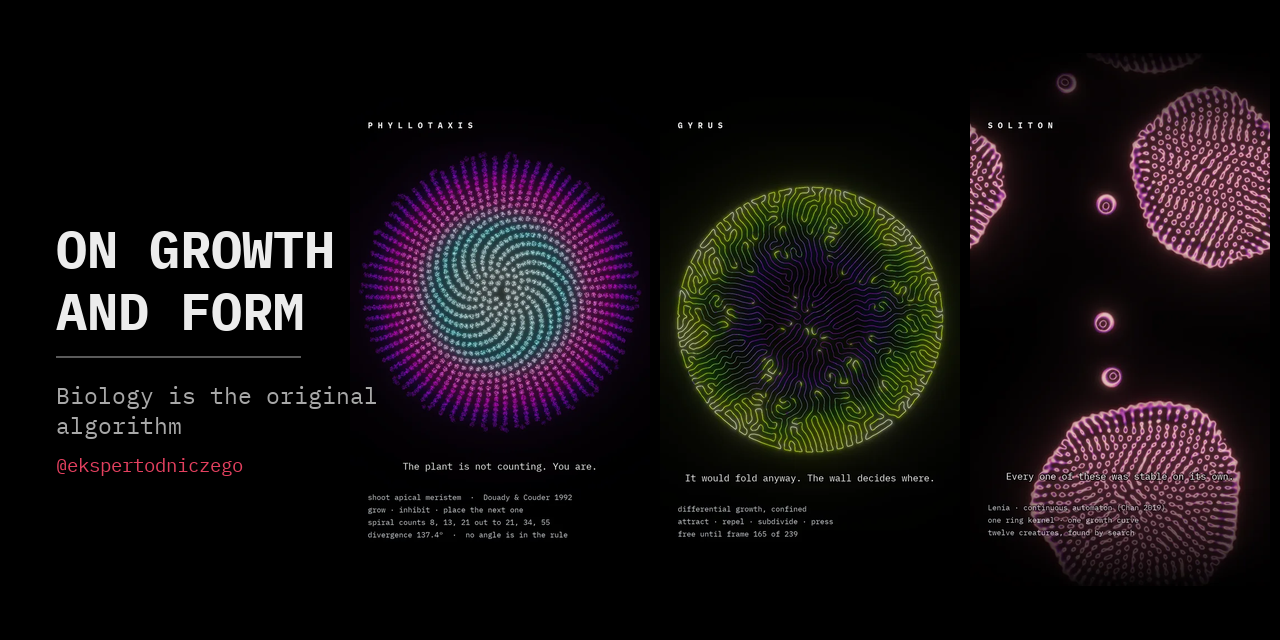
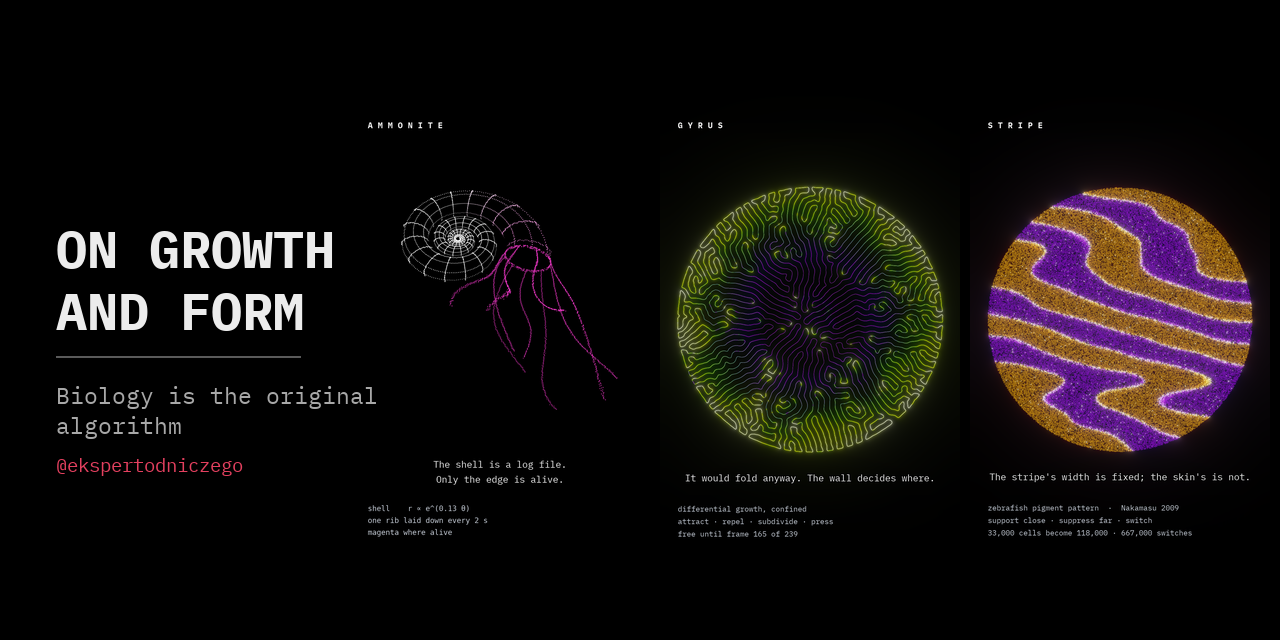
Animate the grid, swap stripe in, put the rules on the page
Six animated loops instead of six stills: 360 px at 12 fps as animated WebP,
4.2 MB for all six, and they run at once without a player or a click.

Stripe replaces Hydrocreatures. The yuruyurau credit goes with it — that
family belongs to the cosine creature, which is not shown here, and
Hydrocreatures was never one of them.

The format paragraph is gone. In its place the six rules themselves, as
maths, read off the models that produced these clips: the phyllotaxis
argmin, the zebrafish near/far drive, the differential-growth update,
anastomosis, Beris-Edwards with an active stress, and the Lenia step.

Wordmark on one line, with a rule and a letterspaced tagline under it.

diff --git a/README.md b/README.md
@@ -1,14 +1,10 @@
 ```
-█▀▀▀▀  █  ▄▀  █▀▀▀▀  █▀▀▀█  █▀▀▀▀  █▀▀▀█  ▀▀█▀▀
-█▀▀▀   █▀█    ▀▀▀▀█  █▀▀▀▀  █▀▀▀   █▀█▀▀    █
-█▄▄▄▄  █  ▀▄  ▄▄▄▄█  █      █▄▄▄▄  █  ▀▄    █
-
-█▀▀▀█  █▀▀▀▄  █▄  █  ▀▀█▀▀  █▀▀▀▀  ▀▀▀█▀  █▀▀▀▀  █▀▀▀▀  █▀▀▀█
-█   █  █   █  █ █ █    █    █       ▄▀    █▀▀▀   █ ▀▀█  █   █
-█▄▄▄█  █▄▄▄▀  █  ▀█  ▄▄█▄▄  █▄▄▄▄  █▄▄▄▄  █▄▄▄▄  █▄▄▄█  █▄▄▄█
+█▀▀▀▀ █  ▄▀ █▀▀▀▀ █▀▀▀█ █▀▀▀▀ █▀▀▀█ ▀▀█▀▀ █▀▀▀█ █▀▀▀▄ █▄  █ ▀▀█▀▀ █▀▀▀▀ ▀▀▀█▀ █▀▀▀▀ █▀▀▀▀ █▀▀▀█
+█▀▀▀  █▀█   ▀▀▀▀█ █▀▀▀▀ █▀▀▀  █▀█▀▀   █   █   █ █   █ █ █ █   █   █      ▄▀   █▀▀▀  █ ▀▀█ █   █
+█▄▄▄▄ █  ▀▄ ▄▄▄▄█ █     █▄▄▄▄ █  ▀▄   █   █▄▄▄█ █▄▄▄▀ █  ▀█ ▄▄█▄▄ █▄▄▄▄ █▄▄▄▄ █▄▄▄▄ █▄▄▄█ █▄▄▄█
+───────────────────────────────────────────────────────────────────────────────────────────────
+             B I O L O G Y    I S    T H E    O R I G I N A L    A L G O R I T H M
 ```
-
-# Biology is the original algorithm
 
 [![Instagram](https://img.shields.io/badge/Instagram-@ekspertodniczego-E4405F?logo=instagram&logoColor=white)](https://instagram.com/ekspertodniczego)
 [![Python](https://img.shields.io/badge/Python-3.12-3776AB?logo=python&logoColor=white)](https://www.python.org/)
@@ -20,45 +16,129 @@ filmed while it computes.
 
 Nothing is an illustration of a result. The model runs, the run *is* the
 footage, and the colour is a quantity the model actually carries: how old a cell
-is, which species it belongs to, how hard it is pulling at that instant. Frame
-one is the finished object, because frame one is the thumbnail.
+is, which of two cells won that patch of skin, how hard a sheet is pulling at
+that instant.
 
 ---
 
-## Six of them
-
 <table>
 <tr>
-<td width="33%"><a href="reels/phyllotaxis/"><img src="reels/phyllotaxis/still.webp" alt="Phyllotaxis"></a></td>
-<td width="33%"><a href="reels/gyrus/"><img src="reels/gyrus/still.webp" alt="Gyrus"></a></td>
-<td width="33%"><a href="reels/hyphae/"><img src="reels/hyphae/still.webp" alt="Hyphae"></a></td>
+<td width="33%"><a href="reels/phyllotaxis/"><img src="reels/phyllotaxis/loop.webp" alt="Phyllotaxis"></a></td>
+<td width="33%"><a href="reels/stripe/"><img src="reels/stripe/loop.webp" alt="Stripe"></a></td>
+<td width="33%"><a href="reels/gyrus/"><img src="reels/gyrus/loop.webp" alt="Gyrus"></a></td>
 </tr>
 <tr valign="top">
 <td><b><a href="reels/phyllotaxis/">Phyllotaxis</a></b><br><sub>Wetware · a shoot apex placing organs</sub><br><br><i>The plant is not counting.<br>You are.</i></td>
+<td><b><a href="reels/stripe/">Stripe</a></b><br><sub>Wetware · a pattern the tissue argues out</sub><br><br><i>Turing predicted chemicals.<br>These are cells.</i></td>
 <td><b><a href="reels/gyrus/">Gyrus</a></b><br><sub>Wetware · differential growth against a wall</sub><br><br><i>It would fold anyway.<br>The wall decides where.</i></td>
-<td><b><a href="reels/hyphae/">Hyphae</a></b><br><sub>Substrate · a mycelium closing its own loops</sub><br><br><i>A tree branches.<br>A fungus branches back.</i></td>
 </tr>
 <tr>
-<td><a href="reels/defect/"><img src="reels/defect/still.webp" alt="Defect"></a></td>
-<td><a href="reels/hydrocreatures/"><img src="reels/hydrocreatures/still.webp" alt="Hydrocreatures"></a></td>
-<td><a href="reels/soliton/"><img src="reels/soliton/still.webp" alt="Soliton"></a></td>
+<td><a href="reels/hyphae/"><img src="reels/hyphae/loop.webp" alt="Hyphae"></a></td>
+<td><a href="reels/defect/"><img src="reels/defect/loop.webp" alt="Defect"></a></td>
+<td><a href="reels/soliton/"><img src="reels/soliton/loop.webp" alt="Soliton"></a></td>
 </tr>
 <tr valign="top">
+<td><b><a href="reels/hyphae/">Hyphae</a></b><br><sub>Substrate · a mycelium closing its own loops</sub><br><br><i>A tree branches.<br>A fungus branches back.</i></td>
 <td><b><a href="reels/defect/">Defect</a></b><br><sub>Substrate · an organism's parts, organism removed</sub><br><br><i>Nothing here is alive.<br>It still cannot rest.</i></td>
-<td><b><a href="reels/hydrocreatures/">Hydrocreatures</a></b><br><sub>Biomorph · three animals that are not animals</sub><br><br><i>Nothing here intends anything.<br>You do.</i></td>
 <td><b><a href="reels/soliton/">Soliton</a></b><br><sub>Artificial Life · Lenia, and what one collision does</sub><br><br><i>Every one of these<br>was stable on its own.</i></td>
 </tr>
 </table>
 
-Each image is frame one of its reel — the frame the piece is composed for.
-**The moving cuts are on [Instagram](https://instagram.com/ekspertodniczego).**
+**The full cuts are on [Instagram](https://instagram.com/ekspertodniczego).**
+
+---
+
+## What is actually running
+
+Six rules. None of them contains the thing it produces — no angle in the
+phyllotaxis rule, no fold in the growth rule, no spiral, no stripe count, no
+membrane. That gap between what is written and what appears is the entire
+subject of the account.
+
+**Phyllotaxis** · *a shoot apex placing organs*
+
+```
+θₙ₊₁ = argmin  Σⱼ |x(θ) − pⱼ|⁻²            rⱼ ∝ √ageⱼ
+         θ
+```
+
+Put the next organ at the rim angle the existing organs object to least, then
+let the tissue underneath carry everything outwards. Constant density forces
+radius to go as the square root of age, which makes the head self-similar — and
+a self-similar head has exactly **one** divergence angle for every organ it will
+ever place. 137.5° and the Fibonacci spiral counts are consequences, not inputs.
+Douady & Couder, 1992.
+
+**Stripe** · *a zebrafish pattern computed by the tissue*
+
+```
+drive = G(σ_near) * f  −  w · G(σ_far) * f        f = +1 black, −1 yellow
+a cell becomes sign(drive), with probability λ per step
+```
+
+Turing's shape — support your own kind close in, suppress it further out — with
+**whole cells standing where the chemicals were**. The two ranges are the reach
+of one cell's processes, so they are fixed while the skin keeps widening: a
+stripe has a width it wants, existing stripes are carried apart, and a new one
+nucleates in the gap. Nothing counts them. Nakamasu, 2009.
+
+**Gyrus** · *differential growth under confinement*
+
+```
+pᵢ ← pᵢ + α·( (pᵢ₊₁ + pᵢ₋₁)/2 − pᵢ ) + ρ·Σⱼ (pᵢ − pⱼ) / |pᵢ − pⱼ|²
+split any edge longer than ℓ   ·   push back anything past the wall
+```
+
+A closed curve that gains length faster than its dish gains room. The folding is
+not caused by the wall — the same curve folds in open space — the wall decides
+**where each fold goes**, which is the harder half of the result to see.
+
+**Hyphae** · *tip extension with anastomosis*
+
+```
+extend at the tip only  ·  branch  ·  on contact, fuse and stop
+```
+
+The third clause is the whole difference between a fungus and a tree. A tree's
+branches diverge and never meet, so a tree has no loops and one path between any
+two points. A mycelium fuses, so it has loops: it can route around damage and
+move material by more than one road. The network is not a by-product of growing;
+it is what the growing is for.
+
+**Defect** · *an active nematic*
+
+```
+∂ₜQ + u·∇Q = S(∇u, Q) + ΓH              σ_active = −ζQ
+```
+
+Beris–Edwards for the alignment, coupled to Stokes flow, with an active stress
+proportional to the alignment itself. That coupling is the trick: **alignment is
+turned into flow, and the flow bends the alignment that produced it.** No
+activity level makes an aligned film stable against itself, so it tears, and
+where it tears the director turns by half a turn — a ±½ defect. Halves cannot
+exist alone, so they arrive in pairs, and they annihilate in pairs. Sanchez,
+2012.
+
+**Soliton** · *Lenia*
+
+```
+Aᵗ⁺ᵈᵗ = clip( Aᵗ + dt · G(K ∗ Aᵗ) , 0, 1 )
+```
+
+Conway's Life with four things made continuous: a real number instead of a bit,
+a smooth ring kernel *K* instead of eight neighbours, one smooth growth curve *G*
+instead of birth and survival integers, and a timestep that moves the field by a
+fraction of the growth instead of all of it. Out come lumps of field that hold
+themselves together while they travel. Nothing about them is designed — almost
+all of the parameter space is lethal, and the survivors have to be searched for.
+Chan, 2019.
 
 ---
 
 ## Four editions
 
 The work is sorted by what kind of claim a piece is allowed to make. Keeping
-those claims apart is the whole discipline of the account: it is the difference
+those claims apart is the discipline of the whole account: it is the difference
 between showing you biology and showing you a curve that flatters you into
 seeing biology.
 
@@ -81,33 +161,16 @@ argument attached, and the argument is Langton's.
 
 ---
 
-## Format
-
-1080 × 1920, 30 fps, H.264, no audio, 8 to 12 seconds — decided per reel, not
-per edition, because two of these needed the extra time and the rest did not.
-
-Composed on black. Brightness is how much stuff is there: additive splatting,
-log-density tone mapping and multi-scale bloom, so a dense region is bright
-because it is dense, not because it was coloured brighter. Colour is always a
-measured quantity intrinsic to the subject and never decoration. Type is IBM
-Plex Mono throughout, with DejaVu Sans Mono reserved for data blocks that carry
-Greek — and the Greek stays Greek: σ, ρ, β, not `s`, `r`, `b`.
-
-Every clip is reproducible from its model. Rendered video is not committed here;
-what went out is on the account.
-
----
-
 ## Credits
 
 The models are other people's; the films are mine. Where a piece rests on a
 published model, the citation is burned into the frame rather than left to the
 caption:
 
-- **Lenia** — Bert Wang-Chak Chan, 2019 — *Soliton*
-- **Douady & Couder, 1992**, the shoot apex as a physical system — *Phyllotaxis*
-- **Sanchez et al., 2012**, kinesin walking on microtubules — *Defect*
-- The closed curve behind *Hydrocreatures* is of the **yuruyurau** family
+- **Douady & Couder, 1992** — the shoot apex as a physical system — *Phyllotaxis*
+- **Nakamasu et al., 2009** — the zebrafish interaction, measured by laser ablation — *Stripe*
+- **Sanchez et al., 2012** — kinesin walking on microtubules — *Defect*
+- **Bert Wang-Chak Chan, 2019** — Lenia — *Soliton*
 
 *Gyrus* and *Hyphae* rest on no single paper: differential growth under
 confinement, and tip extension with anastomosis, are both standard enough to

diff --git a/reels/stripe/README.md b/reels/stripe/README.md
@@ -1,0 +1,51 @@
+# Stripe
+
+**Wetware** · a zebrafish pattern the tissue argues out
+
+<img src="loop.webp" width="320" align="right">
+
+> *Turing predicted chemicals. These are cells.*
+
+A zebrafish stripe is not a chemical pattern. It is an argument between two
+kinds of cell.
+
+Turing showed in 1952 that two substances diffusing at different rates are
+enough to make stripes, and for a long time the zebrafish was the textbook case.
+Then the cells were killed off one at a time with a laser, and what grew back
+gave the interaction away. The shape Turing needed was there — a cell supports
+its own kind close in and suppresses it further out — but **the morphogens were
+not chemicals. They were whole cells**: black melanophores and yellow
+xanthophores, each reading how many of the other kind are nearby and, if the
+answer is wrong, becoming the other kind.
+
+```
+drive = G(σ_near) * f  −  w · G(σ_far) * f        f = +1 black, −1 yellow
+a cell becomes sign(drive), with probability λ per step
+```
+
+So the pattern is computed by the tissue rather than painted onto it. Every
+grain here is one animal cell that decided, and can still change its mind. In
+eight seconds, 667,000 of them do.
+
+The fish also never stops growing, and that is the rest of it. The two ranges
+are fixed — they are the reach of one cell's processes, and a cell does not get
+longer because the fish does. A stripe therefore has a width it wants, and skin
+that keeps widening carries the existing stripes apart until the gap between
+them is wide enough to hold another one, at which point a new stripe nucleates
+in the middle of it.
+
+**Nothing counts them.** The number of stripes is the height of the skin divided
+by a width that no cell chose.
+
+Colour is which of the two cells won that patch of skin. The bright edges are
+the ones that have just changed their minds.
+
+```
+zebrafish pigment pattern  ·  Nakamasu 2009
+support close · suppress far · switch
+33,000 cells become 118,000 · 667,000 switches
+the stripe's width is fixed; the skin's is not
+```
+
+<sub>After Nakamasu et al. 2009, cited in frame. 1080 × 1920, 8 s.
+[On Instagram →](https://instagram.com/ekspertodniczego)</sub>

diff --git a/reels/phyllotaxis/README.md b/reels/phyllotaxis/README.md
@@ -2,7 +2,7 @@
 
 **Wetware** · a shoot apex placing organs where the ones already there object least
 
-<img src="still.webp" width="320" align="right">
+<img src="loop.webp" width="320" align="right">
 
 > *The plant is not counting. You are.*
 

diff --git a/reels/defect/README.md b/reels/defect/README.md
@@ -2,7 +2,7 @@
 
 **Substrate** · an organism's own parts, with the organism taken away
 
-<img src="still.webp" width="320" align="right">
+<img src="loop.webp" width="320" align="right">
 
 > *Nothing here is alive. It still cannot rest.*
 

diff --git a/reels/soliton/README.md b/reels/soliton/README.md
@@ -2,7 +2,7 @@
 
 **Artificial Life** · Lenia, and what one collision does
 
-<img src="still.webp" width="320" align="right">
+<img src="loop.webp" width="320" align="right">
 
 > *Every one of these was stable on its own.*
 

diff --git a/reels/gyrus/README.md b/reels/gyrus/README.md
@@ -2,7 +2,7 @@
 
 **Wetware** · differential growth, run into a wall
 
-<img src="still.webp" width="320" align="right">
+<img src="loop.webp" width="320" align="right">
 
 > *It would fold anyway. The wall decides where.*
 

diff --git a/reels/hyphae/README.md b/reels/hyphae/README.md
@@ -2,7 +2,7 @@
 
 **Substrate** · a mycelium closing its own loops
 
-<img src="still.webp" width="320" align="right">
+<img src="loop.webp" width="320" align="right">
 
 > *A tree branches. A fungus branches back.*
 
